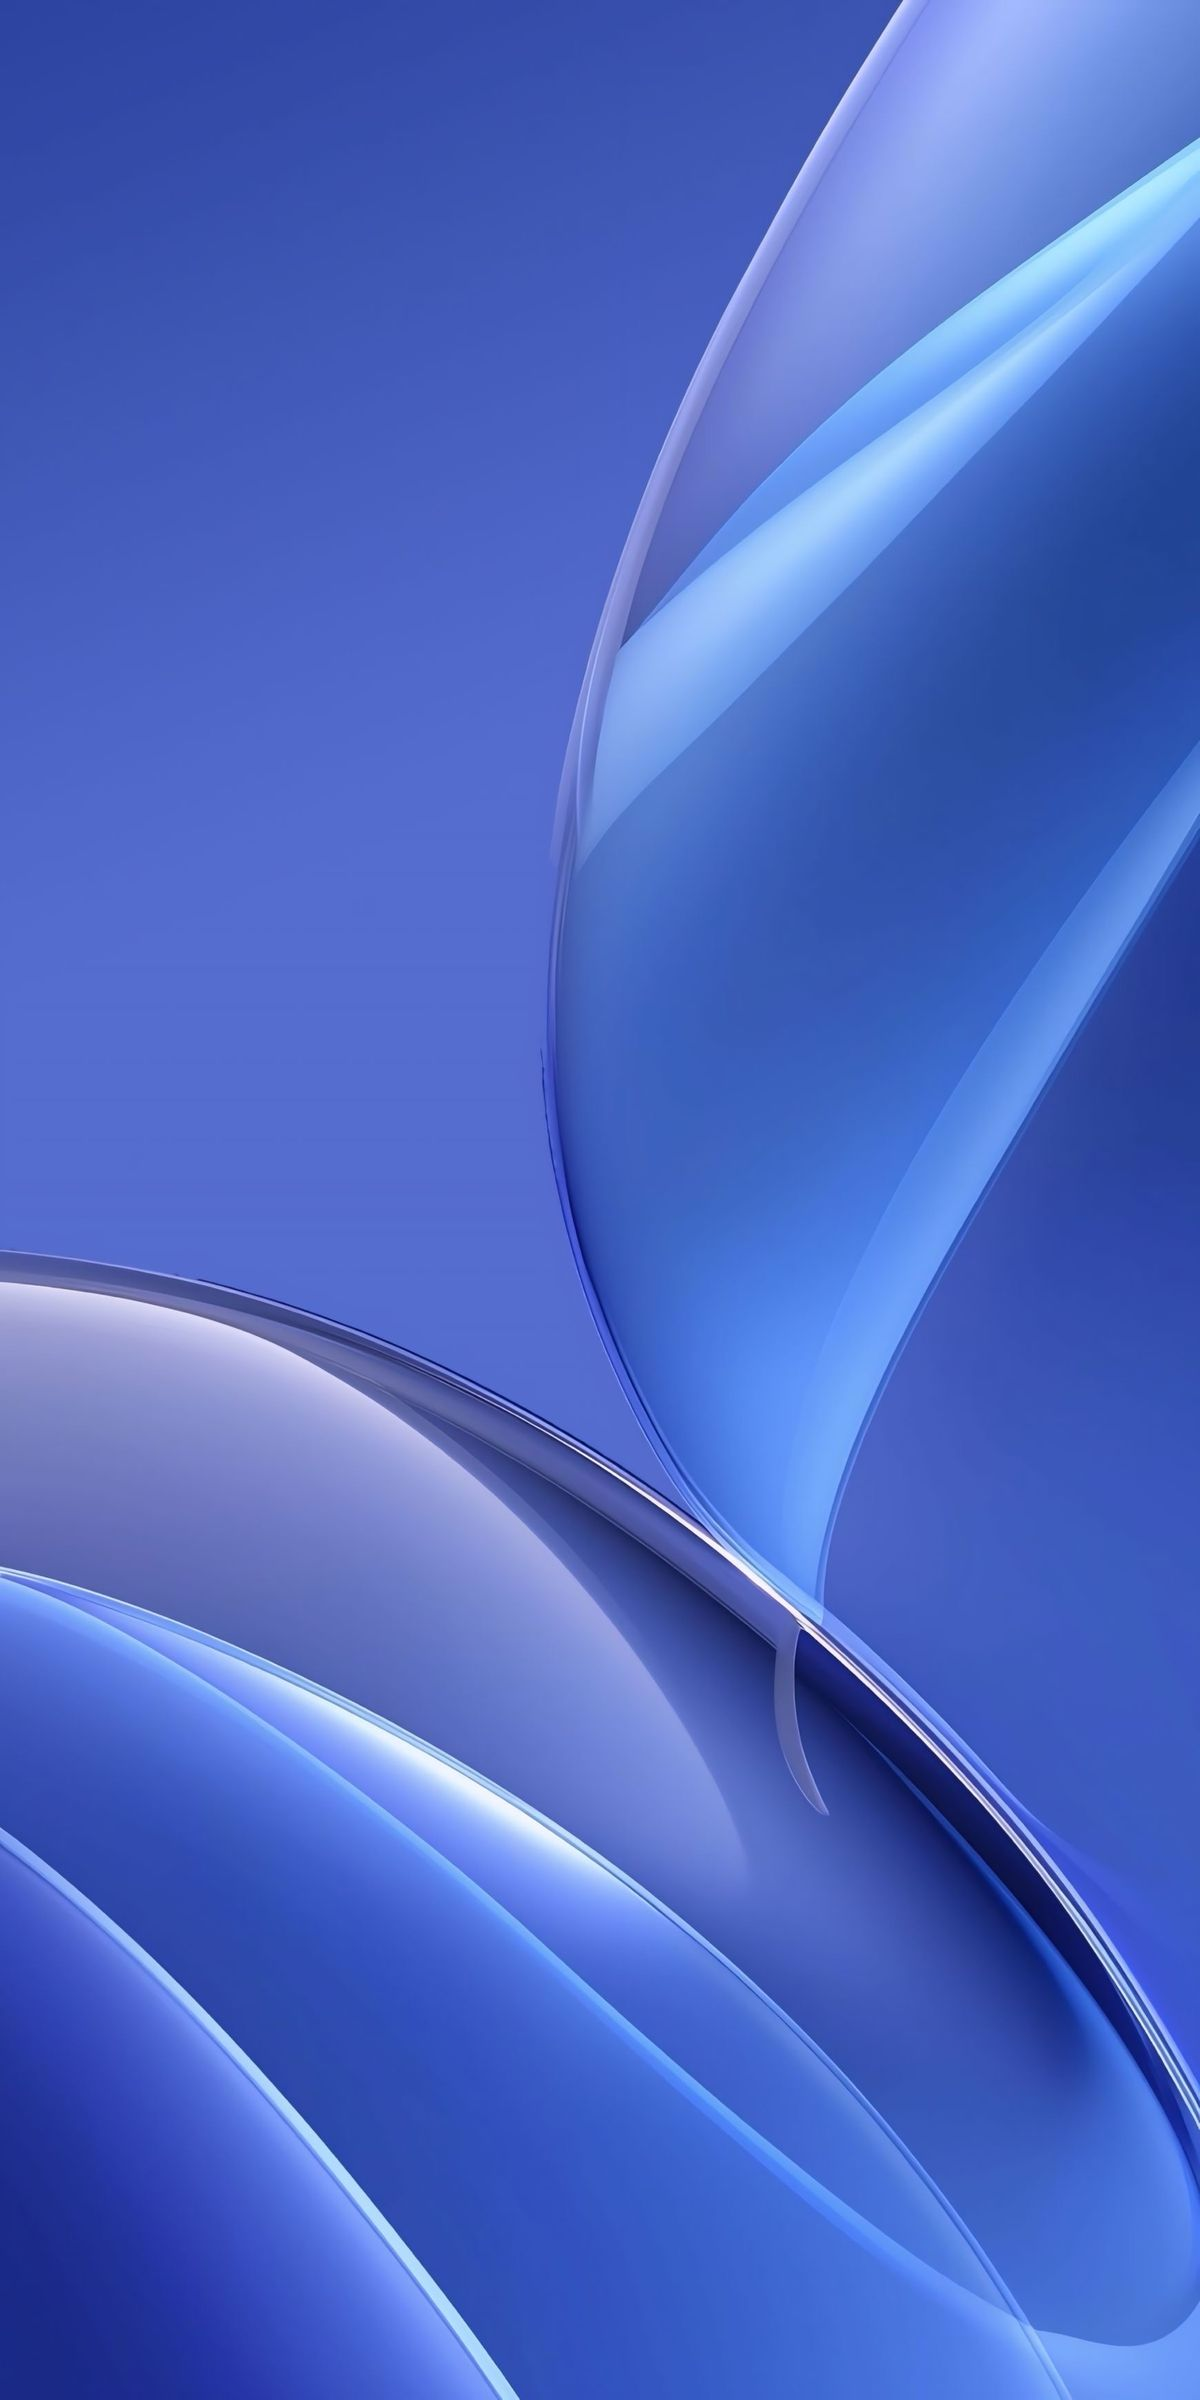
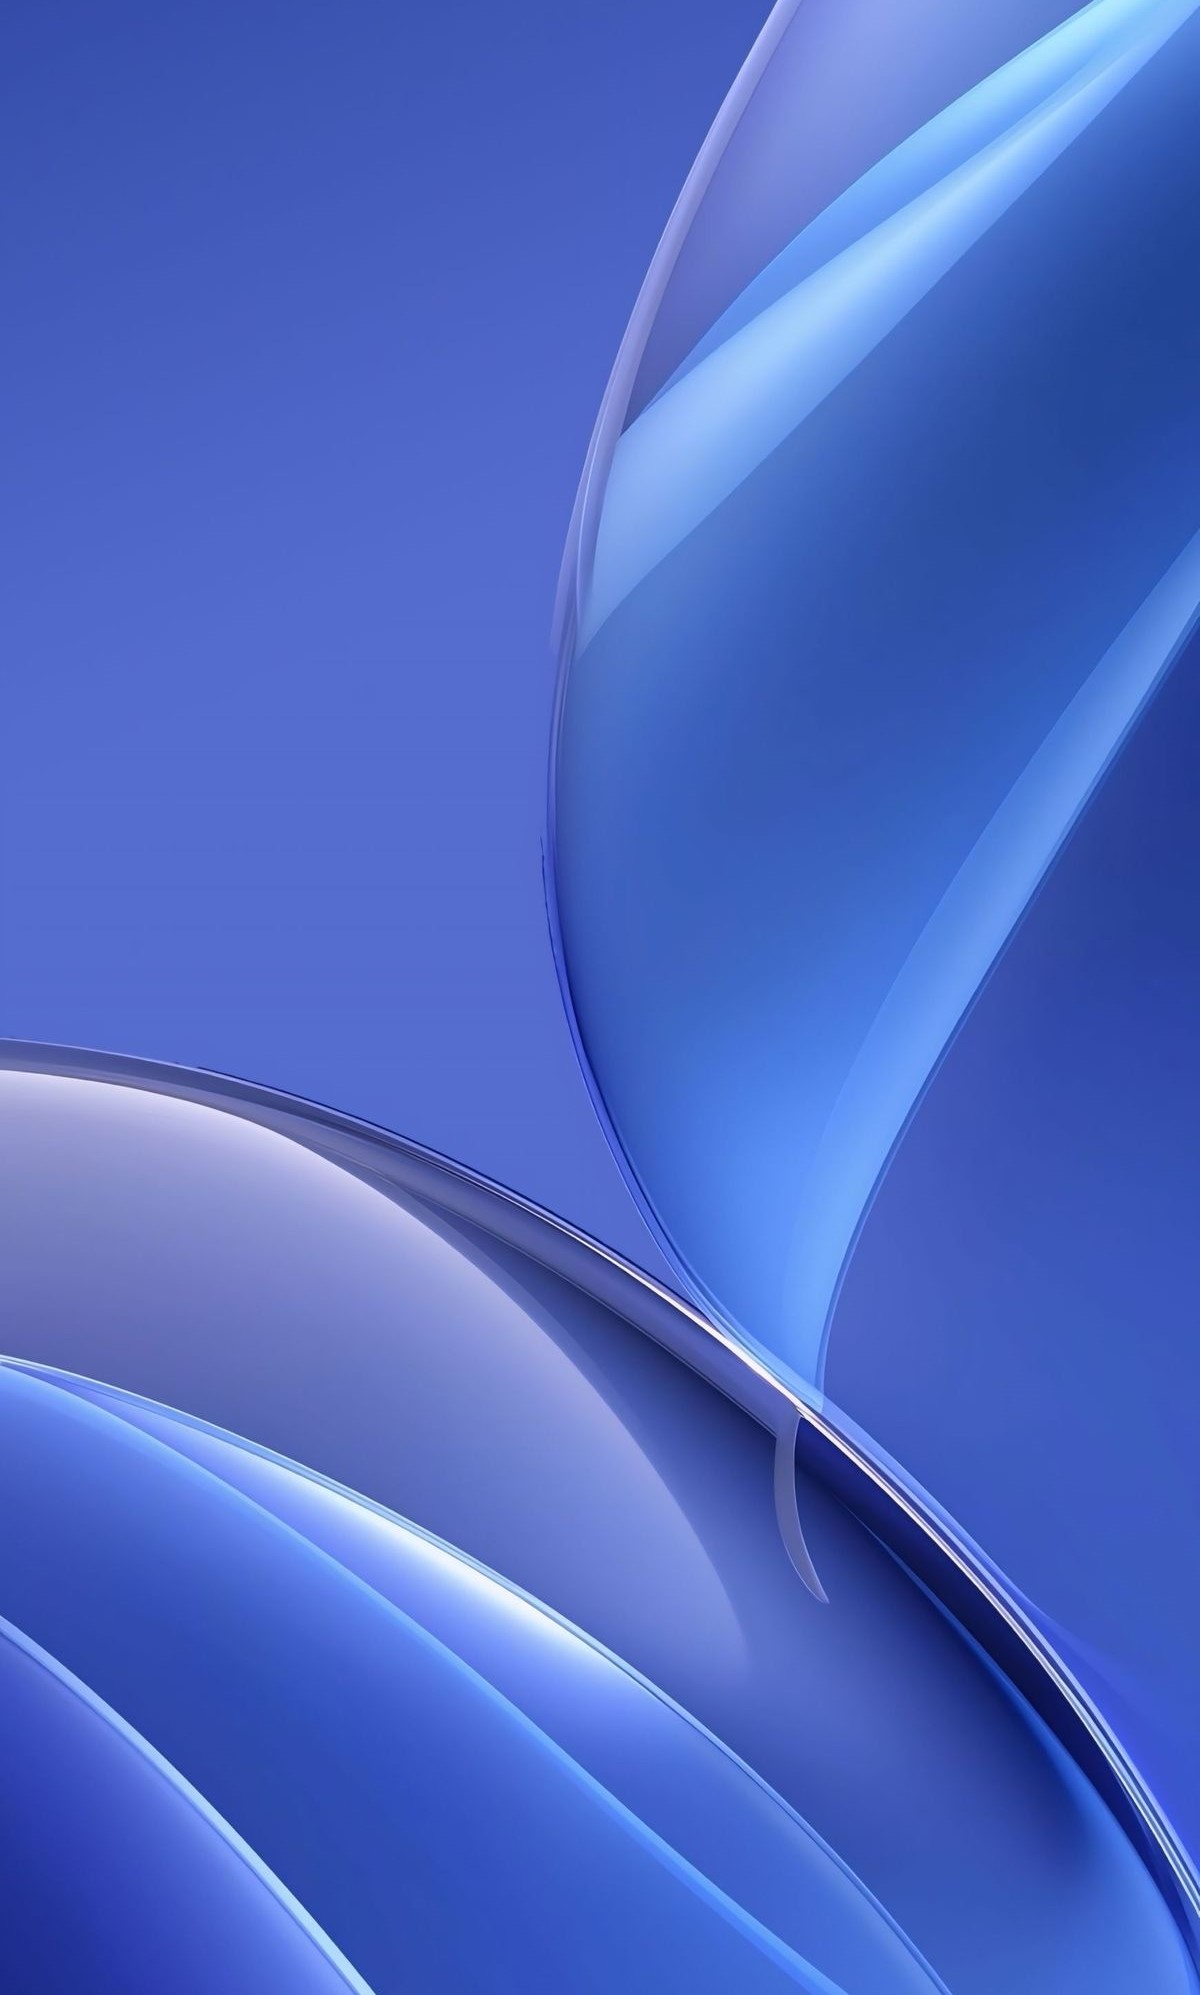
Redesign login page to windowed layout and remove WhatsApp from welcome page

diff --git a/src/pages/auth/login/Login.jsx b/src/pages/auth/login/Login.jsx
@@ -81,79 +81,79 @@ const Login = () => {
   };
 
   return (
-    <div className="d-flex flex-column min-vh-100 overflow-hidden">
+    <div className="login-container">
       <Navbar />
-      <div className="container-fluid login-container flex-grow-1">
-        <div className="card login-card">
-          <div className="row g-0 h-100">
-            {/* Form Side */}
-            <div className="col-lg-6 p-4 d-flex flex-column justify-content-center bg-white">
-              <div className="mb-4">
-                <h3 className="login-title">
-                  Login to HRMS <br />
-                  your work starts here!
-                </h3>
-              </div>
-
-              {error && (
-                <div className="alert alert-danger py-2 small" role="alert">
-                  {error}
-                </div>
-              )}
-
-              <form onSubmit={handleSubmit}>
-                <div className="mb-3">
-                  <label className="form-label">
-                    Email Address
-                  </label>
-                  <input
-                    type="email"
-                    className="form-control"
-                    placeholder="name@company.com"
-                    required
-                    value={email}
-                    onChange={(e) => setEmail(e.target.value)}
-                  />
-                </div>
-
-                <div className="mb-3">
-                  <label className="form-label">Password</label>
-                  <div className="input-group">
-                    <input
-                      type={showPassword ? 'text' : 'password'}
-                      className="form-control border-end-0"
-                      placeholder="••••••••"
-                      required
-                      value={password}
-                      onChange={(e) => setPassword(e.target.value)}
-                    />
-                    <button
-                      className="btn password-toggle-btn px-3"
-                      type="button"
-                      onClick={() => setShowPassword(!showPassword)}
-                    >
-                      {showPassword ? <FaEyeSlash /> : <FaEye />}
-                    </button>
-                  </div>
-                </div>
-
-                <div className="d-flex justify-content-start mb-4">
-                  <Link
-                    to="/forgot-password"
-                    className="forgot-password-link"
-                  >
-                    Forgot password?
-                  </Link>
-                </div>
-
-                <button type="submit" className="btn login-btn">
-                  LOGIN
-                </button>
-              </form>
+      <div className="card login-card">
+        <div className="row g-0 h-100 w-100">
+          {/* Form Side */}
+          <div className="col-lg-6 p-4 p-md-5 d-flex flex-column justify-content-center bg-white">
+            <div className="mb-4">
+              <h3 className="login-title">
+                Login to HRMS <br />
+                your work starts here!
+              </h3>
             </div>
 
-            {/* Image Side */}
-            <div className="col-lg-6 d-none d-lg-block p-0 login-image-container">
+            {error && (
+              <div className="alert alert-danger py-2 small" role="alert">
+                {error}
+              </div>
+            )}
+
+            <form onSubmit={handleSubmit}>
+              <div className="mb-3">
+                <label className="form-label">Email Address</label>
+                <input
+                  type="email"
+                  className="form-control"
+                  placeholder="name@company.com"
+                  required
+                  value={email}
+                  onChange={(e) => setEmail(e.target.value)}
+                />
+              </div>
+
+              <div className="mb-4">
+                <label className="form-label">Password</label>
+                <div className="input-group">
+                  <input
+                    type={showPassword ? 'text' : 'password'}
+                    className="form-control border-end-0"
+                    placeholder="••••••••"
+                    required
+                    value={password}
+                    onChange={(e) => setPassword(e.target.value)}
+                  />
+                  <button
+                    className="btn password-toggle-btn px-3"
+                    type="button"
+                    onClick={() => setShowPassword(!showPassword)}
+                  >
+                    {showPassword ? <FaEyeSlash /> : <FaEye />}
+                  </button>
+                </div>
+              </div>
+
+              <div className="d-flex justify-content-between align-items-center mb-4">
+                <Link to="/forgot-password" gap className="forgot-password-link">
+                  Forgot password?
+                </Link>
+              </div>
+
+              <button type="submit" className="btn login-btn">
+                LOGIN
+              </button>
+
+              <div className="mt-4 text-center">
+                <span className="small text-muted">Don't have an account? </span>
+                <Link to="/signup" className="small fw-bold text-primary text-decoration-none">Create Account</Link>
+              </div>
+            </form>
+          </div>
+
+          {/* Image Side */}
+          <div className="col-lg-6 d-none d-lg-block p-0">
+            <div className="login-image-container h-100 w-100">
               <img
                 src={sideImage}
                 alt="HRMS Dashboard"

diff --git a/src/pages/auth/login/login.css b/src/pages/auth/login/login.css
@@ -1,24 +1,29 @@
-/* Modern Login Page CSS */
+/* Modern Window-Style Login Page CSS */
 @import url('https://fonts.googleapis.com/css2?family=Outfit:wght@300;400;600;700&display=swap');
 
 .login-container {
-  background: #ffffff;
+  background: #f1f5f9;
+  /* Soft light grey background */
   min-height: calc(100vh - 64px);
   display: flex;
   align-items: center;
   justify-content: center;
-  padding: 2rem;
+  padding: 60px 20px;
+  /* Outer page padding */
   font-family: 'Outfit', sans-serif;
 }
 
 .login-card {
-  background: rgba(255, 255, 255, 0.95);
-  border-radius: 1.5rem;
-  box-shadow: 0 25px 50px -12px rgba(0, 0, 0, 0.25);
+  background: #ffffff;
+  border-radius: 12px;
+  /* Rounded container */
+  box-shadow: 0 15px 40px -10px rgba(0, 0, 0, 0.1), 0 5px 15px -5px rgba(0, 0, 0, 0.05);
+  /* Soft floating shadow */
   overflow: hidden;
-  max-width: 800px;
+  max-width: 1100px;
+  /* Reduced overall width */
   width: 100%;
-  min-height: 460px;
+  min-height: 550px;
   border: none !important;
   display: flex;
   transition: all 0.3s ease;
@@ -27,31 +32,29 @@
 .login-title {
   color: #1e40af;
   font-weight: 700;
-  font-size: 1.55rem;
-  margin-bottom: 0.5rem;
+  font-size: 1.8rem;
+  margin-bottom: 1.5rem;
   letter-spacing: -0.015em;
-  line-height: 1.3;
+  line-height: 1.2;
 }
-
 
 .form-label {
   font-weight: 600;
   color: #475569;
   font-size: 0.85rem;
-  margin-bottom: 0.4rem;
+  margin-bottom: 0.5rem;
   text-transform: uppercase;
   letter-spacing: 0.05em;
 }
 
 .form-control {
   background: #f8fafc;
-  border: 2px solid #e2e8f0;
-  border-radius: 0.8rem !important;
-  padding: 0.75rem 1rem;
+  border: 1.5px solid #e2e8f0;
+  border-radius: 12px !important;
+  padding: 0.85rem 1.1rem;
   font-size: 0.95rem;
   transition: all 0.2s ease;
-  max-width: 100% !important;
-  /* Allow full width of its column */
+  width: 100%;
 }
 
 .form-control:focus {
@@ -61,77 +64,83 @@
   outline: none;
 }
 
-.input-group {
-  max-width: 100% !important;
-}
-
 .password-toggle-btn {
-  border: 2px solid #e2e8f0;
+  border: 1.5px solid #e2e8f0;
   border-left: none;
   background: #f8fafc;
-  border-radius: 0 0.8rem 0.8rem 0 !important;
+  border-radius: 0 12px 12px 0 !important;
   color: #64748b;
 }
 
 .login-btn {
   background: linear-gradient(135deg, #3b82f6 0%, #1e40af 100%);
   color: white !important;
-  padding: 0.85rem;
-  border-radius: 0.8rem !important;
+  padding: 1rem;
+  border-radius: 12px !important;
   font-weight: 700;
   border: none;
-  box-shadow: 0 4px 15px rgba(30, 64, 175, 0.3);
+  box-shadow: 0 10px 15px -3px rgba(30, 64, 175, 0.3);
   transition: all 0.3s ease;
   width: 100%;
-  max-width: 100% !important;
   margin-top: 1.5rem;
   text-transform: uppercase;
-  letter-spacing: 0.05em;
+  letter-spacing: 0.06em;
+  font-size: 0.95rem;
 }
 
 .login-btn:hover {
   transform: translateY(-2px);
-  box-shadow: 0 8px 25px rgba(30, 64, 175, 0.4);
+  box-shadow: 0 20px 25px -5px rgba(30, 64, 175, 0.4);
   background: linear-gradient(135deg, #2563eb 0%, #1d4ed8 100%);
 }
 
 .forgot-password-link {
   color: #1e40af;
   font-weight: 600;
-  font-size: 0.85rem;
+  font-size: 0.9rem;
   text-decoration: none;
-  transition: color 0.2s;
+  transition: all 0.2s;
 }
 
 .forgot-password-link:hover {
-  color: #1d4ed8;
-  text-decoration: underline;
+  color: #3b82f6;
+  text-decoration: none;
 }
 
+/* Image Section Adjustments */
 .login-image-container {
-  background: #f1f5f9;
-  overflow: hidden;
-  position: relative;
+  background: #f8fafc;
+  padding: 24px;
+  /* Image must NOT touch edges */
   display: flex;
   align-items: center;
   justify-content: center;
+  position: relative;
 }
 
 .login-image {
   width: 100%;
   height: 100%;
-  object-fit: contain;
-  padding: 1rem;
-  filter: drop-shadow(0 10px 15px rgba(0, 0, 0, 0.1));
+  object-fit: cover;
+  /* Maintain aspect ratio */
+  border-radius: 16px;
+  /* Rounded image corners */
+  box-shadow: 0 10px 15px -3px rgba(0, 0, 0, 0.1);
+  /* Subtle depth */
 }
 
 @media (max-width: 992px) {
   .login-card {
     flex-direction: column;
-    max-width: 450px;
+    max-width: 500px;
+    margin: 0 auto;
   }
 
   .login-image-container {
     display: none;
+  }
+
+  .login-container {
+    padding: 30px 15px;
   }
 }

diff --git a/src/App.jsx b/src/App.jsx
@@ -99,7 +99,7 @@ import AutomationCenter from "./pages/modules/administration/automation/Automati
 function AppContent() {
   const location = useLocation();
   // Show WhatsApp only on Home, Features, About, Contact, and Calendar pages
-  const allowedPaths = ['/', '/home', '/features', '/about', '/contact', '/calendar'];
+  const allowedPaths = ['/home', '/features', '/about', '/contact', '/calendar'];
   const showWhatsApp = allowedPaths.includes(location.pathname);
 
   return (
